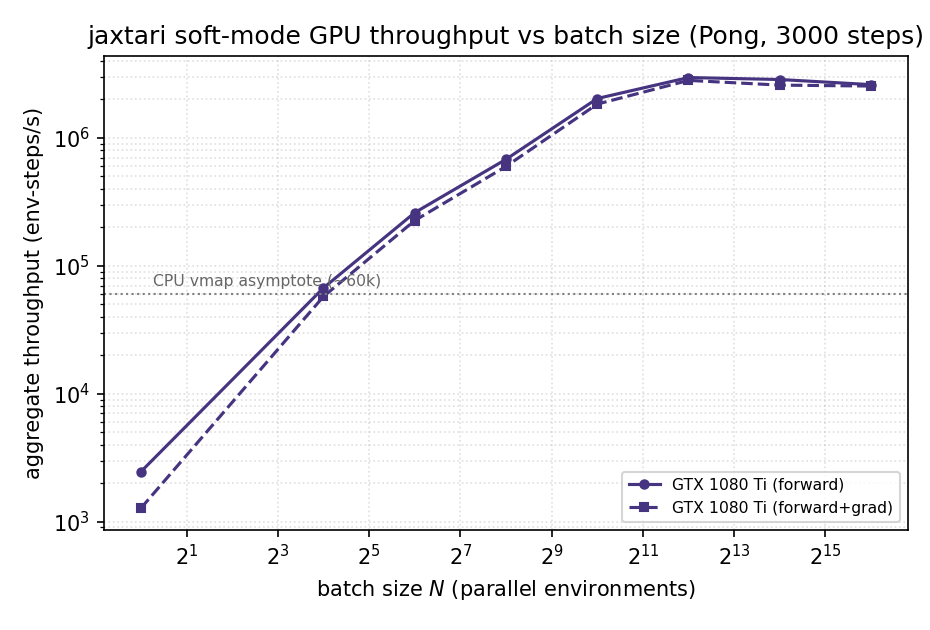
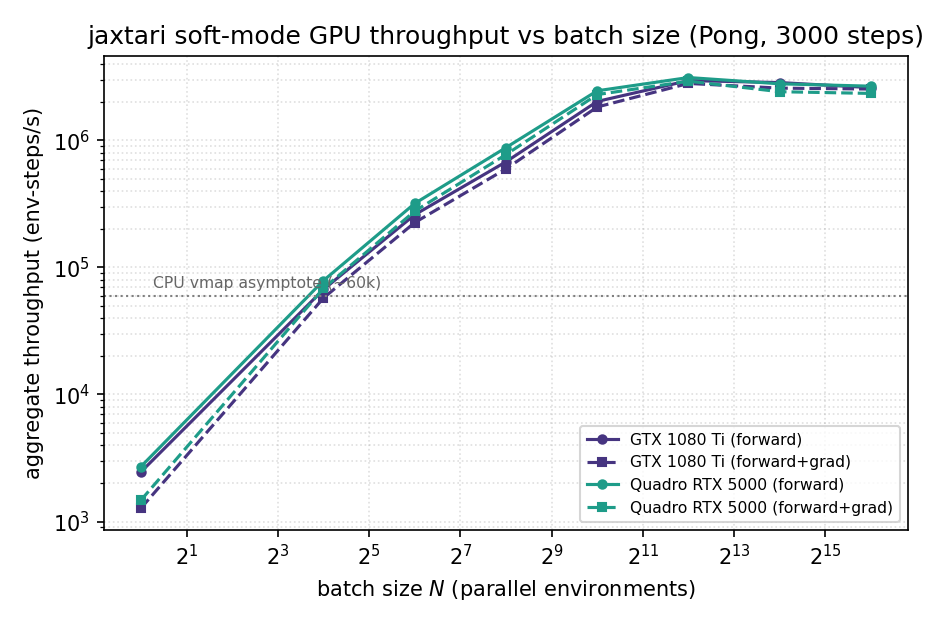
GPU throughput: add q5000 (16GB Turing) confirming data point — throughput plan complete
Second GPU architecture (Quadro RTX 5000) traces the same scaling curve as the
gtx1080ti and peaks slightly higher (~3.12M env-steps/s fwd at N~4096, ~2.92M
fwd+bwd), confirming the scaling is a property of the batched all-branch execution,
not one specific GPU. Regenerated figures/gpu_throughput (now both cards), added the
q5000 note + updated the figure caption in supplementary.tex, rebuilt supplementary.pdf.
48GB cards remain excluded (driver mismatch + hardware availability).

diff --git a/jutari_paper/paper/supplementary.tex b/jutari_paper/paper/supplementary.tex
@@ -745,8 +745,11 @@ Crucially the reverse-mode gradient is nearly free at scale---\emph{forward+grad
 tracks forward to within ${\sim}5\%$ at the peak (${\sim}2.8$M env-steps/s)---so a
 commodity GPU turns batched \emph{differentiable} rollouts (gradient-based RL or
 attribution over thousands of environments at once) into the natural way to use
-\textsc{jaxtari}. We report a single widely-available card deliberately: the curve's
-shape, not a specific datacenter GPU, is the point.
+\textsc{jaxtari}. A second, newer architecture (Quadro~RTX~5000, 16\,GB Turing)
+traces the same curve and peaks slightly higher (${\sim}3.12$M env-steps/s at
+$N{\approx}4096$; Figure~\ref{fig:gpu-throughput}), so the scaling reflects the
+batched all-branch execution rather than one specific GPU. We report widely-available
+cards deliberately: the curve's shape, not a datacenter accelerator, is the point.
 
 \begin{table}[tbh]
 \centering
@@ -801,7 +804,7 @@ $65536$ & $2{,}599{,}999$ & $2{,}533{,}964$\\
 \centering
 \includegraphics[width=\linewidth]{figures/gpu_throughput.pdf}
 \caption{\textsc{jaxtari} soft-mode GPU throughput vs.\ batch size $N$ (Pong,
-$3{,}000$ steps; commodity GTX~1080~Ti). Forward and forward+gradient both rise
+$3{,}000$ steps; two commodity GPUs, GTX~1080~Ti and Quadro~RTX~5000). Forward and forward+gradient both rise
 ${\sim}1200\times$ from $N{=}1$ to a peak near $N{=}4096$ (${\sim}3$M env-steps/s,
 ${\sim}50\times$ the CPU \texttt{vmap} asymptote, dotted), then roll off as the device
 saturates---the $256$-way \texttt{lax.switch} all-branch dispatch parallelises across